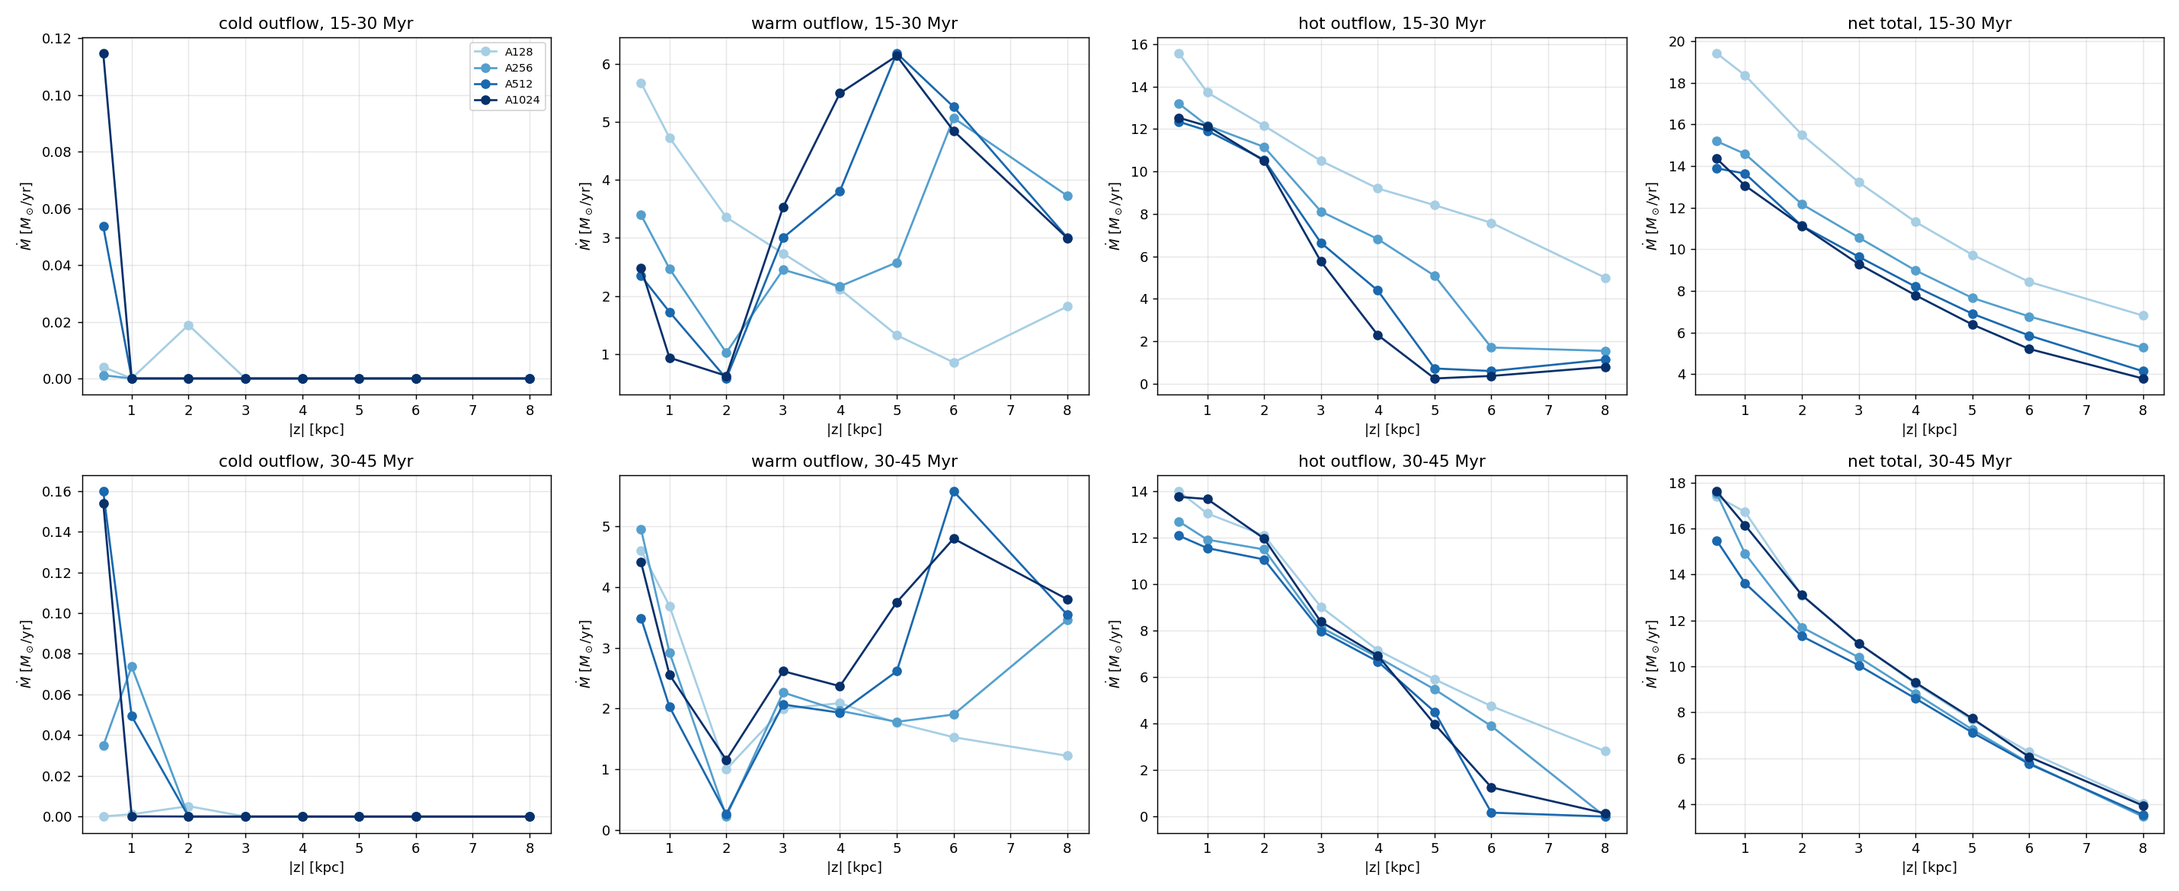
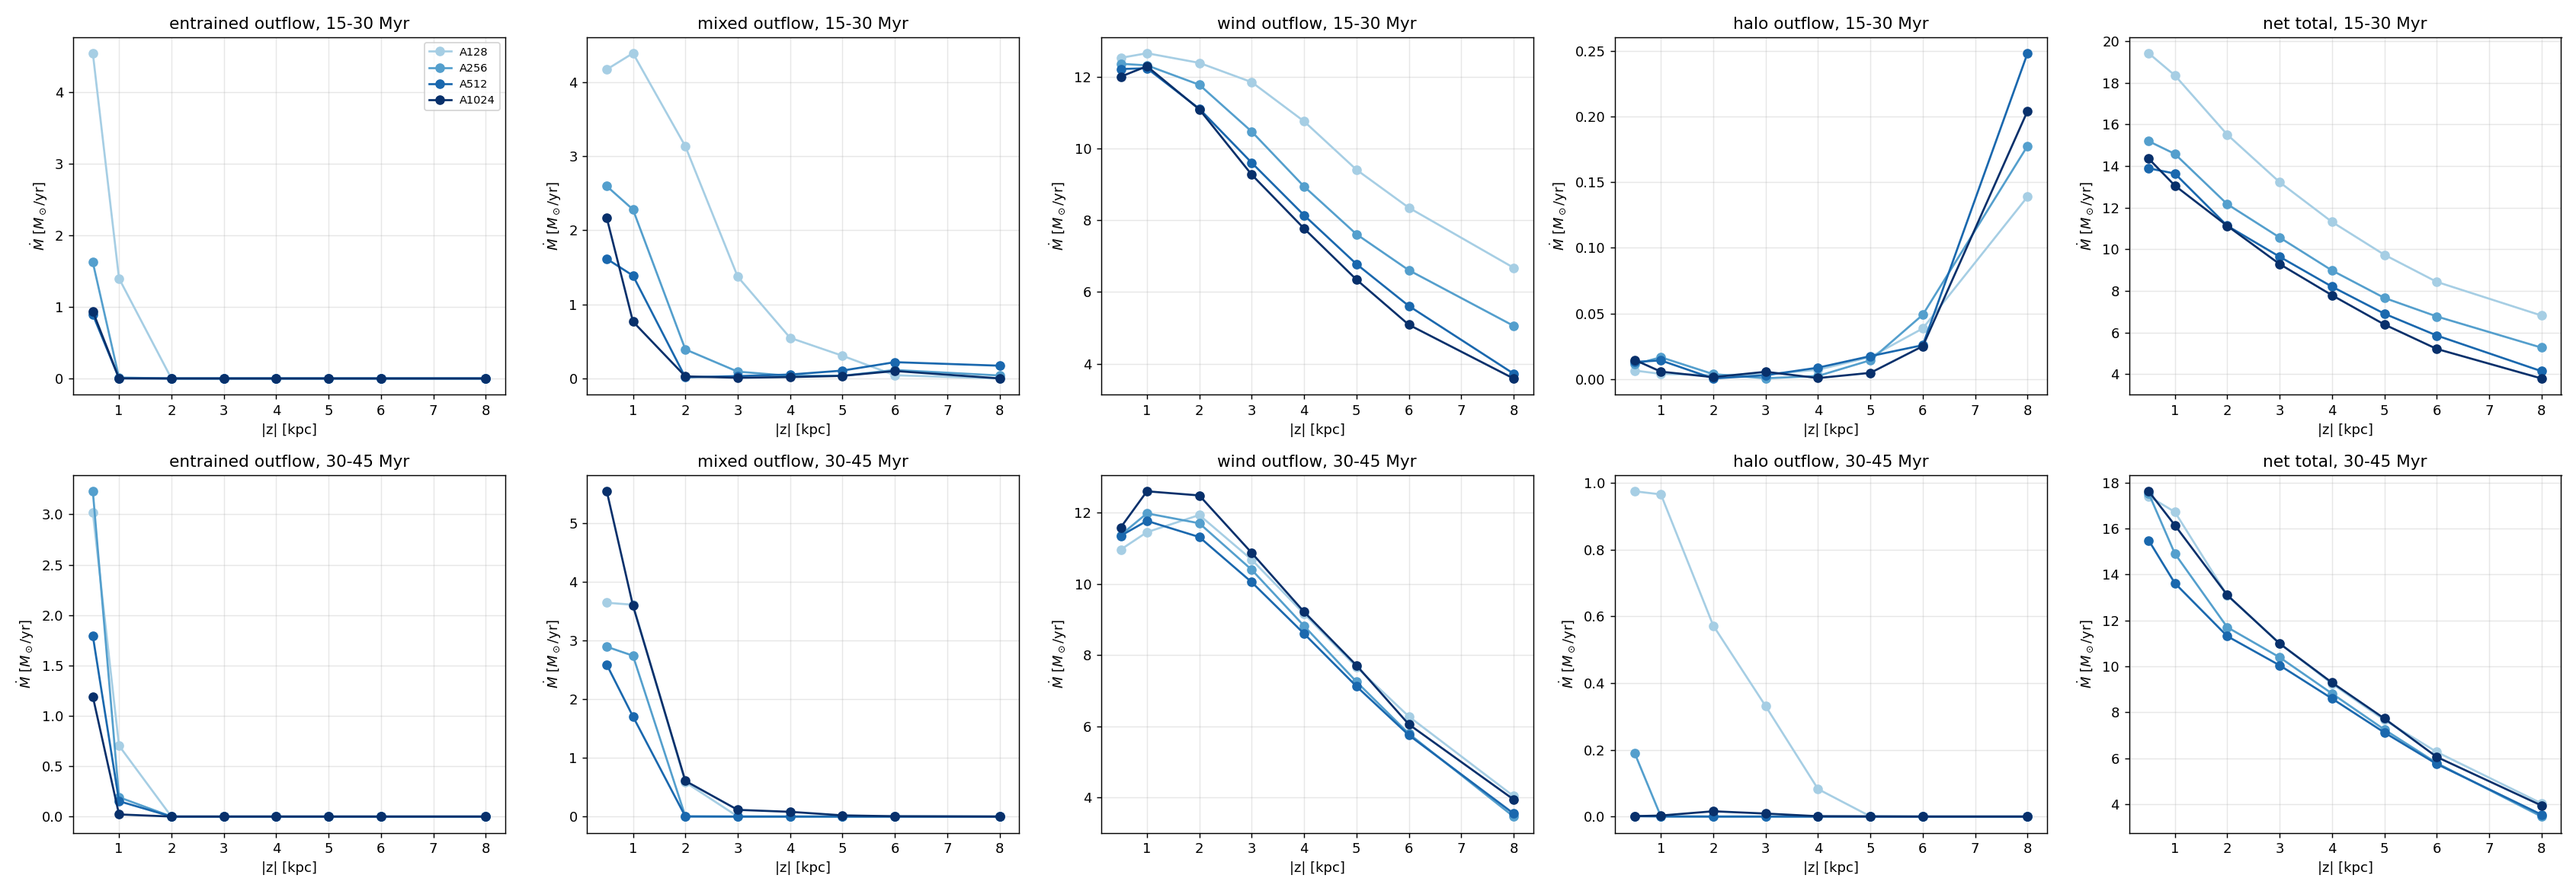
cgols: A-series 3D convergence by entropy, morphology and emission
cgols_convergence_3d.py now splits by entropy K = T/n^(2/3) (log K < 5.5
entrained disk gas, 5.5-6.8 mixed, 6.8-7.9 wind, > 7.9 unmixed halo),
which adiabatic gas keeps, instead of temperature alone (kept as
_fluxes_T): the free wind cools to ~2e5 K by 5 kpc, so a T cut mostly
measured adiabatic cooling. It adds per-height geometry (free-wind cone
from v_out > 600 km/s; the swept halo shares the wind's entropy), the
entrained+mixed share of the outflow, mixed gas mass and its height and
radial extent, and the emission convergence (L_X1, L_X2, L_Halpha, S_X).

128 -> 1024, 15-30 Myr at 1 kpc: wind-entropy outflow converged (12.3
Msun/yr); mixed 4.4 / 2.3 / 1.4 / 0.8 and entrained 1.4 -> 0 fall with
resolution (numerical mixing). 30-45 Myr: A1024 mixed rises to 3.6 (rim
instability, 512: 1.7) and its 5 kpc wind-entropy flux is +8%. Cone
opening (~60 deg at 1 kpc) and Edot(1 kpc) (~5.1e42) converged; Edot(5
kpc) still -6% from 512 to 1024. Halpha grows with resolution (disk gas).

Claude-Session: https://claude.ai/code/session_017KSSY2CwxMXeapK3WuKUK4

diff --git a/pytests/self_gravity/cgols/cgols_convergence_3d.py b/pytests/self_gravity/cgols/cgols_convergence_3d.py
@@ -15,6 +15,18 @@ tile by tile, like cgols_emission.py, and measures per snapshot
   phases   the mass-weighted (log n, log T) histogram of |z| > 1 kpc;
   axis     mass-weighted n, T, v_out against z inside R < 0.3 kpc, for the
            comparison with the Chevalier & Clegg (1985) free wind;
+  entropy  the fluxes and masses again split by the entropy K = T / n^(2/3)
+           [K cm^2], which adiabatic gas keeps except at shocks and in mixing,
+           so it labels the gas by origin: log K < 5.5 entrained disk gas,
+           5.5-6.8 mixed (wind-disk mixing layers), 6.8-7.9 wind (injected at
+           ~7.1, raised at shocks), > 7.9 unmixed initial halo (8.24);
+  geometry per height z the plane area and mass in every entropy bin and in
+           every temperature phase, and the area of fast outflowing gas
+           (v_out > FAST_WIND_KMS, the free-wind cone; the swept-up halo
+           shares the wind's entropy, so entropy cannot outline the cone):
+           the cone radius sqrt(A_fast / pi), its opening angle and the
+           radial width of the mixed gas A_mixed / (2 pi R_cone) (kpc-wide:
+           the disk-halo interface, not a thin layer on the cone wall);
 
 and caches them in data/studies/convergence3d<tag>.npz (resumable). With
 --plot it compares cached runs (figures/cgols/comparisons/
@@ -65,6 +77,9 @@ CODE_MASS_MSUN = float((1 * CODE_UNITS.code_mass).to(u.M_sun).value)
 CONVERSIONS = emission_conversions(CODE_UNITS)
 
 HEIGHTS_KPC = np.array([0.5, 1.0, 2.0, 3.0, 4.0, 5.0, 6.0, 8.0])
+ENTROPY_EDGES = (5.5, 6.8, 7.9)  # log10 K [K cm^2]
+ENTROPY_BINS = ("entrained", "mixed", "wind", "halo")
+FAST_WIND_KMS = 600.0  # ~half the free-wind speed (~1150 km/s)
 PHASE_EDGES_K = (3e4, 5e5)  # cold | warm | hot
 PHASES = ("cold", "warm", "hot")
 RADIUS_EDGES_KPC = (0.5, 1.0, 2.0)  # R < 0.5 | 0.5-1 | 1-2 | > 2
@@ -107,7 +122,18 @@ def measure_checkpoint(step_directory):
     planes = [(np.argmin(np.abs(z - h)), np.argmin(np.abs(z + h))) for h in HEIGHTS_KPC]
     num_h, num_p, num_r = len(HEIGHTS_KPC), len(PHASES), len(RADIUS_EDGES_KPC) + 1
 
+    num_k = len(ENTROPY_BINS)
     out = {
+        "mdot_net_K": np.zeros((num_h, num_k)),
+        "mdot_out_K": np.zeros((num_h, num_k)),
+        "pdot_out_K": np.zeros((num_h, num_k)),
+        "edot_net_K": np.zeros((num_h, num_k)),
+        "mass_disk_K": np.zeros(num_k),
+        "mass_halo_K": np.zeros(num_k),
+        "zarea_K": np.zeros((num_k, nz)),
+        "zmass_K": np.zeros((num_k, nz)),
+        "zarea_T": np.zeros((num_p, nz)),
+        "zarea_fast": np.zeros(nz),
         "mdot_net": np.zeros((num_h, num_p)),
         "mdot_out": np.zeros((num_h, num_p)),
         "pdot_out": np.zeros((num_h, num_p)),
@@ -144,6 +170,11 @@ def measure_checkpoint(step_directory):
         del block
         temperature = pressure / rho * np.float32(CONVERSIONS.kelvin_per_code_specific_energy)
         phase = np.digitize(temperature, PHASE_EDGES_K).astype(np.int8)
+        log_entropy = np.log10(
+            temperature / (rho * np.float32(CONVERSIONS.total_number_density_per_code_density)) ** np.float32(2 / 3)
+        )
+        kbin = np.digitize(log_entropy, ENTROPY_EDGES).astype(np.int8)
+        del log_entropy
         radius = np.hypot(x[xs][:, None], y[ys][None, :]).astype(np.float32)
         radius_bin = np.digitize(radius, RADIUS_EDGES_KPC)
 
@@ -153,6 +184,7 @@ def measure_checkpoint(step_directory):
                 r, v_out, p = rho[:, :, k], side * vz[:, :, k], pressure[:, :, k]
                 v2 = vx[:, :, k] ** 2 + vy[:, :, k] ** 2 + vz[:, :, k] ** 2
                 ph = phase[:, :, k]
+                kb = kbin[:, :, k]
                 mass_flux = r * v_out * dx**2
                 outflowing = v_out > 0
                 energy_flux = (0.5 * r * v2 + GAMMA / (GAMMA - 1) * p) * v_out * dx**2
@@ -163,6 +195,12 @@ def measure_checkpoint(step_directory):
                     out["mdot_out"][h, q] += mass_flux[sel & outflowing].sum(dtype=np.float64)
                     out["pdot_out"][h, q] += momentum_flux[sel].sum(dtype=np.float64)
                     out["edot_net"][h, q] += energy_flux[sel].sum(dtype=np.float64)
+                for b in range(num_k):
+                    sel = kb == b
+                    out["mdot_net_K"][h, b] += mass_flux[sel].sum(dtype=np.float64)
+                    out["mdot_out_K"][h, b] += mass_flux[sel & outflowing].sum(dtype=np.float64)
+                    out["pdot_out_K"][h, b] += momentum_flux[sel].sum(dtype=np.float64)
+                    out["edot_net_K"][h, b] += energy_flux[sel].sum(dtype=np.float64)
                 out["mdot_net_radius"][h] += np.bincount(
                     radius_bin.ravel(), weights=mass_flux.ravel().astype(np.float64), minlength=num_r
                 )
@@ -173,6 +211,16 @@ def measure_checkpoint(step_directory):
             sel = phase == q
             out["mass_disk"][q] += cell_mass[:, :, in_disk][sel[:, :, in_disk]].sum(dtype=np.float64)
             out["mass_halo"][q] += cell_mass[:, :, ~in_disk][sel[:, :, ~in_disk]].sum(dtype=np.float64)
+
+        for b in range(num_k):
+            sel = kbin == b
+            out["mass_disk_K"][b] += cell_mass[:, :, in_disk][sel[:, :, in_disk]].sum(dtype=np.float64)
+            out["mass_halo_K"][b] += cell_mass[:, :, ~in_disk][sel[:, :, ~in_disk]].sum(dtype=np.float64)
+            out["zarea_K"][b] += sel.sum(axis=(0, 1)) * dx**2
+            out["zmass_K"][b] += np.where(sel, cell_mass, 0).sum(axis=(0, 1), dtype=np.float64)
+        for q in range(num_p):
+            out["zarea_T"][q] += (phase == q).sum(axis=(0, 1)) * dx**2
+        out["zarea_fast"] += (vz * sign_z > np.float32(FAST_WIND_KMS / 100.0)).sum(axis=(0, 1)) * dx**2
 
         # Mass-weighted (log n, log T) histogram of the outflow region.
         log_n = np.log10(rho[:, :, in_hist] * np.float32(CONVERSIONS.total_number_density_per_code_density))
@@ -196,14 +244,16 @@ def measure_checkpoint(step_directory):
             out["axis_mass_logn"] += (
                 m * np.log10(rho[axis] * np.float32(CONVERSIONS.total_number_density_per_code_density))
             ).sum(axis=0, dtype=np.float64)
-        del rho, vx, vy, vz, pressure, temperature, phase, cell_mass
+        del rho, vx, vy, vz, pressure, temperature, phase, kbin, cell_mass
 
     # Physical units.
-    for key in ("mdot_net", "mdot_out", "mdot_net_radius"):
+    for key in ("mdot_net", "mdot_out", "mdot_net_radius", "mdot_net_K", "mdot_out_K"):
         out[key] *= MSUN_PER_YR
     out["pdot_out"] *= MOMENTUM_PER_YR
+    out["pdot_out_K"] *= MOMENTUM_PER_YR
     out["edot_net"] *= ERG_PER_S
-    for key in ("mass_disk", "mass_halo", "hist_nT"):
+    out["edot_net_K"] *= ERG_PER_S
+    for key in ("mass_disk", "mass_halo", "hist_nT", "mass_disk_K", "mass_halo_K", "zmass_K"):
         out[key] *= CODE_MASS_MSUN
     out["time_myr"] = time_myr
     out["z_kpc"] = z
@@ -234,7 +284,8 @@ def parse_steps(spec, available):
 
 
 def cache_path(tag):
-    return os.path.join(SCRIPT_DIR, "data", "studies", f"convergence3d{tag}.npz")
+    # v3: + entropy bins, per-height geometry and the fast-wind cone area.
+    return os.path.join(SCRIPT_DIR, "data", "studies", f"convergence3d_v3{tag}.npz")
 
 
 def load_cache(tag):
@@ -408,21 +459,61 @@ def plot(runs):
     axes[0, 0].legend(fontsize=8)
     fig.suptitle("A-series, full 3D states: phase-resolved fluxes (cold < 3e4 K < warm < 5e5 K < hot)")
     fig.tight_layout()
+    fig.savefig(os.path.join(fig_dir, "a_series_convergence3d_fluxes_T.png"), dpi=130)
+
+    # 1b) The same by entropy (origin): entrained / mixed / wind / halo.
+    fig, axes = plt.subplots(4, 4, figsize=(22, 15), sharex=True)
+    for label, rec in data.items():
+        c = colors[label]
+        for col, (h, name) in enumerate(((h1, "1 kpc"), (h5, "5 kpc"))):
+            for b, bin_name in enumerate(ENTROPY_BINS):
+                t, v = _series(rec, "mdot_out_K", lambda a, h=h, b=b: a[h, b])
+                axes[b, col].plot(t, v, color=c, label=label)
+                axes[b, col].set_title(f"outflowing mass flux, {bin_name}, |z| = {name}")
+        for row, (key, h, scale, title) in enumerate((
+            ("edot_net_K", h1, 1e42, "net energy flux |z| = 1 kpc [1e42 erg/s]"),
+            ("edot_net_K", h5, 1e42, "net energy flux |z| = 5 kpc [1e42 erg/s]"),
+            ("pdot_out_K", h1, 1e3, "outward momentum flux |z| = 1 kpc [1e3 Msun km/s/yr]"),
+            ("pdot_out_K", h5, 1e3, "outward momentum flux |z| = 5 kpc [1e3 Msun km/s/yr]"),
+        )):
+            t, v = _series(rec, key, lambda a, h=h: a[h].sum())
+            axes[row, 2].plot(t, v / scale, color=c, label=label)
+            axes[row, 2].set_title(title)
+        for row, (key, reducer, scale, title) in enumerate((
+            ("mass_disk_K", lambda a: a.sum(), 1e9, "disk mass |z| < 0.5 kpc [1e9 Msun]"),
+            ("mass_halo_K", lambda a: a[0], 1e8, "entrained (log K < 5.5) mass |z| > 0.5 kpc [1e8 Msun]"),
+            ("mass_halo_K", lambda a: a[1], 1e8, "mixed (5.5-6.8) mass |z| > 0.5 kpc [1e8 Msun]"),
+            ("mass_halo_K", lambda a: a[2], 1e8, "wind-entropy (6.8-7.9) mass |z| > 0.5 kpc [1e8 Msun]"),
+        )):
+            t, v = _series(rec, key, reducer)
+            axes[row, 3].plot(t, v / scale, color=c, label=label)
+            axes[row, 3].set_title(title)
+    for ax in axes.flat:
+        ax.grid(alpha=0.3)
+        ax.axvspan(15, 40, color="0.93", zorder=0)
+    for ax in axes[:, 0]:
+        ax.set_ylabel(r"$M_\odot$/yr")
+    for ax in axes[-1]:
+        ax.set_xlabel("t [Myr]")
+    axes[0, 0].legend(fontsize=8)
+    fig.suptitle("A-series, full 3D states: fluxes by entropy K = T/n$^{2/3}$ [K cm$^2$]: entrained < 10$^{5.5}$ "
+                 "< mixed < 10$^{6.8}$ < wind < 10$^{7.9}$ < unmixed halo")
+    fig.tight_layout()
     fig.savefig(os.path.join(fig_dir, "a_series_convergence3d_fluxes.png"), dpi=130)
 
-    # 2) Time-averaged flux profiles against height, two windows, by phase.
-    fig, axes = plt.subplots(2, 4, figsize=(22, 9))
+    # 2) Time-averaged flux profiles against height, two windows, by entropy bin.
+    fig, axes = plt.subplots(2, 5, figsize=(26, 9))
     for row, window in enumerate(((15, 30), (30, 45))):
         for label, rec in data.items():
             steps = [s for s in sorted(rec) if window[0] <= rec[s]["time_myr"] <= window[1]]
             if not steps:
                 continue
             mean = lambda key: np.mean([rec[s][key] for s in steps], axis=0)
-            for q in range(3):
-                axes[row, q].plot(HEIGHTS_KPC, mean("mdot_out")[:, q], "o-", color=colors[label], label=label)
-                axes[row, q].set_title(f"{PHASES[q]} outflow, {window[0]}-{window[1]} Myr")
-            axes[row, 3].plot(HEIGHTS_KPC, mean("mdot_net").sum(axis=1), "o-", color=colors[label], label=label)
-            axes[row, 3].set_title(f"net total, {window[0]}-{window[1]} Myr")
+            for b, bin_name in enumerate(ENTROPY_BINS):
+                axes[row, b].plot(HEIGHTS_KPC, mean("mdot_out_K")[:, b], "o-", color=colors[label], label=label)
+                axes[row, b].set_title(f"{bin_name} outflow, {window[0]}-{window[1]} Myr")
+            axes[row, 4].plot(HEIGHTS_KPC, mean("mdot_net").sum(axis=1), "o-", color=colors[label], label=label)
+            axes[row, 4].set_title(f"net total, {window[0]}-{window[1]} Myr")
     for ax in axes.flat:
         ax.set(xlabel="|z| [kpc]", ylabel=r"$\dot M$ [$M_\odot$/yr]")
         ax.grid(alpha=0.3)
@@ -437,6 +528,10 @@ def plot(runs):
         r = rec[step]
         axes[0, col].pcolormesh(LOG_N_EDGES, LOG_T_EDGES, r["hist_nT"].T, norm=LogNorm(1e3, None), cmap="viridis")
         axes[0, col].set(title=f"{label}: mass in |z| > 1 kpc, {r['time_myr']:.1f} Myr", xlabel="log n", ylabel="log T")
+        log_n_line = np.array([LOG_N_EDGES[0], LOG_N_EDGES[-1]])
+        for edge in ENTROPY_EDGES:  # constant entropy: log T = log K + 2/3 log n
+            axes[0, col].plot(log_n_line, edge + 2 / 3 * log_n_line, "w--", lw=0.8)
+        axes[0, col].set(xlim=(LOG_N_EDGES[0], LOG_N_EDGES[-1]), ylim=(LOG_T_EDGES[0], LOG_T_EDGES[-1]))
     zs = np.linspace(0.05, 9.5, 200)
     n_cc, t_cc, v_cc = cc85_profile(zs)
     for label, rec in data.items():
@@ -484,6 +579,105 @@ def plot(runs):
     fig.tight_layout()
     fig.savefig(os.path.join(fig_dir, "a_series_convergence_rim.png"), dpi=130)
 
+    # 5) Morphology from the 3D states: wind radius / opening angle, hot area,
+    #    mixed gas and the mixing-layer thickness, per height (N/S averaged).
+    def per_side(rec, step, key, b=None):
+        z = rec[step]["z_kpc"]
+        values = rec[step][key] if b is None else rec[step][key][b]
+        north = z > 0
+        return z[north], 0.5 * (values[north] + values[~north][::-1])
+
+    def wind_radius(rec, step):
+        z, area = per_side(rec, step, "zarea_fast")
+        return z, np.sqrt(area / np.pi)
+
+    fig, axes = plt.subplots(2, 3, figsize=(20, 10))
+    for label, rec in data.items():
+        c = colors[label]
+        for T, ls in ((25, "-"), (37.5, "--")):
+            step = min(rec, key=lambda s: abs(rec[s]["time_myr"] - T))
+            z, radius = wind_radius(rec, step)
+            axes[0, 0].plot(z, radius, ls, color=c, label=f"{label} {rec[step]['time_myr']:.1f} Myr")
+        steps = sorted(rec)
+        t = np.array([rec[s]["time_myr"] for s in steps])
+        # The cone reaches the box edge (|x| = 5 kpc) by z ~ 3 kpc, and the
+        # mixed gas lives below ~1.5 kpc: measure at z = 1 and 2 kpc.
+        for height, ls in ((1.0, "-"), (2.0, "--")):
+            angle, thickness = [], []
+            for s in steps:
+                z, radius = wind_radius(rec, s)
+                k = int(np.argmin(np.abs(z - height)))
+                angle.append(np.degrees(np.arctan(radius[k] / z[k])))
+                _, mixed_area = per_side(rec, s, "zarea_K", 1)
+                # Undefined before the wind has opened a cone at this height.
+                thickness.append(mixed_area[k] / (2 * np.pi * radius[k]) * 1e3 if radius[k] > 0.2 else np.nan)
+            axes[0, 1].plot(t, angle, ls, color=c, label=f"{label} z = {height:g}")
+            if height == 1.0:
+                axes[1, 1].plot(t, thickness, ls, color=c, label=label)
+        for h, ls in ((h1, "-"), (int(np.argmin(np.abs(HEIGHTS_KPC - 2))), "--")):
+            t, v = _series(rec, "mdot_out_K", lambda a, h=h: (a[h, 0] + a[h, 1]) / max(a[h].sum(), 1e-30))
+            axes[0, 2].plot(t, v, ls, color=c, label=f"{label} z = {HEIGHTS_KPC[h]:g}")
+        t, v = _series(rec, "mass_halo_K", lambda a: a[1])
+        axes[1, 0].plot(t, v / 1e8, color=c, label=label)
+        window = [s for s in steps if 30 <= rec[s]["time_myr"] <= 45]
+        if window:
+            z = rec[window[0]]["z_kpc"]
+            profile = np.mean([per_side(rec, s, "zmass_K", 1)[1] for s in window], axis=0)
+            dz = z[1] - z[0]
+            axes[1, 2].plot(z[z > 0], profile / dz / 1e6, color=c, label=label)
+    axes[0, 0].axhline(np.sqrt(BOX_SIZE_KPC[0] * BOX_SIZE_KPC[1] / np.pi), color="0.5", ls=":", lw=0.8)
+    axes[0, 0].set(xlabel="z [kpc]", ylabel=r"$R_\mathrm{cone} = \sqrt{A(v_\mathrm{out} > 600\,\mathrm{km/s})/\pi}$ [kpc]",
+                   title="free-wind cone radius")
+    axes[0, 1].set(xlabel="t [Myr]", ylabel="half-opening angle [deg]", title="atan(R_cone / z) at z = 1 (solid), 2 kpc (dashed)")
+    axes[0, 2].set(xlabel="t [Myr]", ylabel="fraction", title="entrained+mixed share of the outflowing mass flux, z = 1 (solid), 2 kpc (dashed)")
+    axes[1, 0].set(xlabel="t [Myr]", ylabel=r"[$10^8 M_\odot$]", title="mixed gas (5.5 < log K < 6.8) in |z| > 0.5 kpc")
+    axes[1, 1].set(xlabel="t [Myr]", ylabel="[pc]", title="radial width of mixed gas at z = 1 kpc: A_mixed / (2 pi R_cone)")
+    axes[1, 2].set(xlabel="z [kpc]", ylabel=r"dM/dz [$10^6 M_\odot$/kpc]", title="mixed gas against height, 30-45 Myr")
+    for ax in axes.flat:
+        ax.grid(alpha=0.3)
+        ax.legend(fontsize=7)
+    fig.tight_layout()
+    fig.savefig(os.path.join(fig_dir, "a_series_convergence3d_morphology.png"), dpi=130)
+
+    # 6) Emission convergence from the cgols_emission.py caches.
+    fig, axes = plt.subplots(1, 4, figsize=(24, 5))
+    for label, tag in runs:
+        path = os.path.join(SCRIPT_DIR, "data", "studies", f"emission{tag}.npz")
+        if not os.path.exists(path):
+            continue
+        cache = np.load(path, allow_pickle=True)
+        t = cache["per_snapshot__time_myr"]
+        c = colors.get(label, "k")
+        for ax, key in zip(axes[:3], ("L_xray_cgols_xz", "L_xray_atomdb_xz", "L_halpha_xz")):
+            ax.semilogy(t, cache[f"per_snapshot__{key}"], color=c, label=label)
+        i = int(np.argmin(np.abs(t - 60)))
+        z = cache["per_snapshot__profile_z_kpc"][i]
+        profile = 0.5 * (cache["per_snapshot__profile_xray_cgols_xz_north"][i] + cache["per_snapshot__profile_xray_cgols_xz_south"][i])
+        axes[3].semilogy(z, profile, color=c, label=f"{label} ({t[i]:.0f} Myr)")
+    for ax, title in zip(axes, ("L_X1 (CGOLS Eq. 17) [erg/s]", "L_X2 (AtomDB 0.3-2 keV) [erg/s]", "L_Halpha [erg/s]",
+                                "S_X1(|z|) at 60 Myr, N/S mean [erg/s/cm^2/arcmin^2]")):
+        ax.set_title(title)
+        ax.set_xlabel("t [Myr]" if "S_X" not in title else "|z| [kpc]")
+        ax.grid(alpha=0.3)
+        ax.legend(fontsize=8)
+    fig.tight_layout()
+    fig.savefig(os.path.join(fig_dir, "a_series_convergence_emission.png"), dpi=130)
+
+    # Tables: window means by entropy bin, then by temperature phase.
+    for window in ((15, 30), (30, 45), (45, 75)):
+        print(f"\n{window[0]}-{window[1]} Myr  outflowing Mdot [Msun/yr] entrained/mixed/wind/halo at 1 kpc | 5 kpc ; "
+              "Edot(1|5) [1e42]")
+        for label, rec in data.items():
+            steps = [s for s in sorted(rec) if window[0] <= rec[s]["time_myr"] <= window[1]]
+            if not steps:
+                continue
+            mo = np.mean([rec[s]["mdot_out_K"] for s in steps], axis=0)
+            ed = np.mean([rec[s]["edot_net_K"] for s in steps], axis=0)
+            print(
+                f"  {label:7s} " + " ".join(f"{v:6.2f}" for v in mo[h1]) + " | " + " ".join(f"{v:6.2f}" for v in mo[h5])
+                + f" ; {ed[h1].sum() / 1e42:5.2f} {ed[h5].sum() / 1e42:5.2f}  ({len(steps)} snaps)"
+            )
+
     # Table: window means at 1/5 kpc.
     for window in ((15, 30), (30, 45), (45, 75)):
         print(f"\n{window[0]}-{window[1]} Myr  outflowing Mdot [Msun/yr] cold/warm/hot at 1 kpc | 5 kpc ; Edot(5) [1e42]")
@@ -497,7 +691,8 @@ def plot(runs):
                 f"  {label:7s} {mo[h1, 0]:6.2f} {mo[h1, 1]:6.2f} {mo[h1, 2]:6.2f} | "
                 f"{mo[h5, 0]:6.2f} {mo[h5, 1]:6.2f} {mo[h5, 2]:6.2f} ; {ed[h5].sum() / 1e42:5.2f}  ({len(steps)} snaps)"
             )
-    print("wrote a_series_convergence3d_{fluxes,profiles,phases_axis}.png")
+    print("wrote a_series_convergence3d_{fluxes,fluxes_T,profiles,phases_axis,morphology}.png, "
+          "a_series_convergence_{rim,emission}.png")
 
 
 def main():
